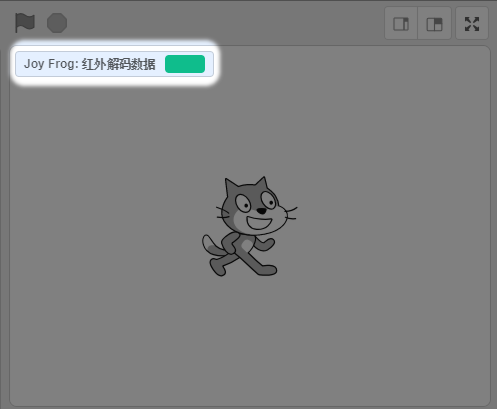
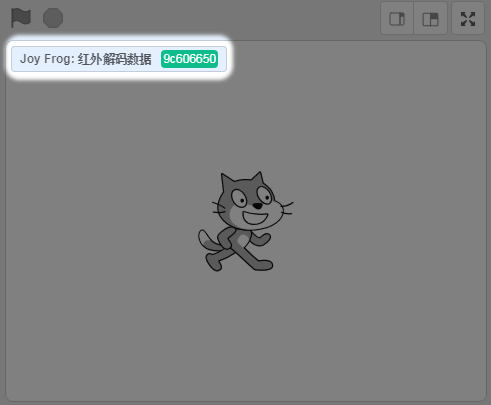
青蛙手柄更新

diff --git a/JoyFrog/c03.md b/JoyFrog/c03.md
@@ -12,7 +12,9 @@
 
 ### 使用示例1——xy按键按下播放蜂鸣器音乐
 
-确保青蛙手柄的串口已经连接上，否则板上的蜂鸣器不会响
+确保青蛙手柄的串口已经连接上，否则板上的蜂鸣器不会响。
+
+**操作与结果：**按下X或者Y按键，蜂鸣器就会响起音乐来。
 
 ![](./images/c03_12.png)
 
@@ -22,7 +24,9 @@
 
 问：摇杆能否读到模拟值？
 
-答：因为本身如果摇杆涉及读到不同模拟值，对应Scratch角色
+答：不能，因为如果摇杆涉及读到不同模拟值，对应Scratch角色运动控制比较麻烦。本手柄主要针对初学者入门，所以摇杆没有做读模拟值
+
+**操作与结果：**左右摇动下摇杆，观察小猫会在舞台随着摇杆左右移动
 
 ![](./images/c03_13.png)
 
@@ -30,7 +34,7 @@
 
 摇杆除了可以上下左右摇动，还有一个确认按钮(就是直接按下摇杆)。所以这里特意做了一个示例用来说明摇杆按键。
 
-示例的现象：当你按下摇杆杆件，舞台小喵会说出“摇杆按键按下”
+**操作与结果：**当你按下摇杆杆件，舞台小喵会说出“摇杆按键按下”，两秒后文字消失，再按下时候，重新说出“摇杆按键按下”
 
 ![](./images/c03_14.png)
 
@@ -38,7 +42,7 @@
 
 青蛙手柄其中一个很好玩的功能就是——金手指触摸。金手指触摸还可以通过鳄鱼夹连接到各种水果上或者金属的物体上。
 
-示例的现象：当金手指1、2分别按下时，舞台显现角色A和角色B(当然你也可以连接8个鳄鱼夹，刚好做出一个水果琴)
+**操作与结果：**当金手指1、2分别被手摸的时候，舞台会对应显现角色A和角色B(当然你也可以连接8个鳄鱼夹，刚好做出一个水果琴)
 
 ![](./images/c03_19.png)
 
@@ -48,7 +52,7 @@
 
 ![](./images/c03_03.png)
 
-此积木块的功能实际等同这个，只是为了方便大家对金手指进行音调编程，所以特意做了一个独立的积木块。
+此积木块的功能实际等同**当按键XX按下**，只是为了方便大家对金手指进行音调编程，所以特意做了一个独立的积木块。
 
 这样大家对这Do、Re、Mi这些字符来编程比较容易对应上。
 
@@ -64,6 +68,8 @@
 
 确保青蛙手柄的串口已经连接上，否则板上的蜂鸣器不会响（串口驱动之前已经提前安装好了）
 
+**操作与结果：**当按键x与y分别被按下时，蜂鸣器会发出不同的声响。
+
 ![](./images/c03_17.png)
 
 ## 蜂鸣器音乐设置积木块
@@ -75,6 +81,8 @@
 ### 使用示例1——xy按键按下播放蜂鸣器音乐
 
 确保青蛙手柄的串口已经连接上，否则板上的蜂鸣器不会响
+
+**操作与结果：**当按键x与y分别被按下时，蜂鸣器会发出不同的短曲音乐
 
 ![](./images/c03_12.png)
 
@@ -88,6 +96,8 @@
 
 ### 使用示例1——xy按键按下发送红外编码
 
+**操作与结果：** 按x按键，发送12345678这个红外编码，按y按键发送87654321这个红外编码
+
 ![](./images/c03_18.png)
 
 ## 红外接收触发积木块
@@ -96,8 +106,11 @@
 
 ![](./images/c03_07.png)
 
+**操作与结果：**当青蛙手柄的红外接收管，接收到红外信号，这个帽子积木块边缘就会发亮（因为发亮是一瞬间，太难截图了，大家理解下）
+
 ## 红外解码内容积木块
 
+![](./images/c03_27.png)
 
 光接收数据是不行的，我们需要接接收的数据的进行判断。例如家里的遥控器都是很多个按键，每个按键对应不同的红外编码，对应触发不同的事件（例如电视喇叭声音变大，或者换台等等）
 
@@ -109,7 +122,15 @@
 
 ![](./images/c03_10.png)
 
-## 3PIN模块
+## 红外解码后发射同样的内容
+
+因为我们已经把遥控器对应的按键红外码解出来了，这时候，我们对应把发射红外的发射出去。
+
+这样就成功把遥控器上的按键复制下来了。
+
+![](./images/c03_28.png)
+
+## 3PIN模块（背后的端口3与端口4）
 
 ![](./images/c03_11.png)
 
@@ -125,6 +146,9 @@ Port3口 接好LED模块
 
 ![](./images/c03_23.png)
 
+**实验结果：** LED模块每隔一秒闪一下
+
+
 ### 数字读（以按键模块为例）
 
 使用的按键模块，按下是低电平，平时是高电平
@@ -135,9 +159,15 @@ Port3口 接好LED模块
 
 ![](./images/c03_24.png)
 
+**实验结果：** 当按键按下时（低电平），小猫在思考，嗯....,否则一直说你好
+
 ### PWM写（以舵机为例）
 
 舵机是典型的被PWM写的器件，我们可以控制舵机的角度
+
+舵机这边因为没有做特意的转接线，所以只通过公转公杜邦线转接一下，舵机接到port3端口
+
+![](./images/c03_29.png)
 
 程序：
 
